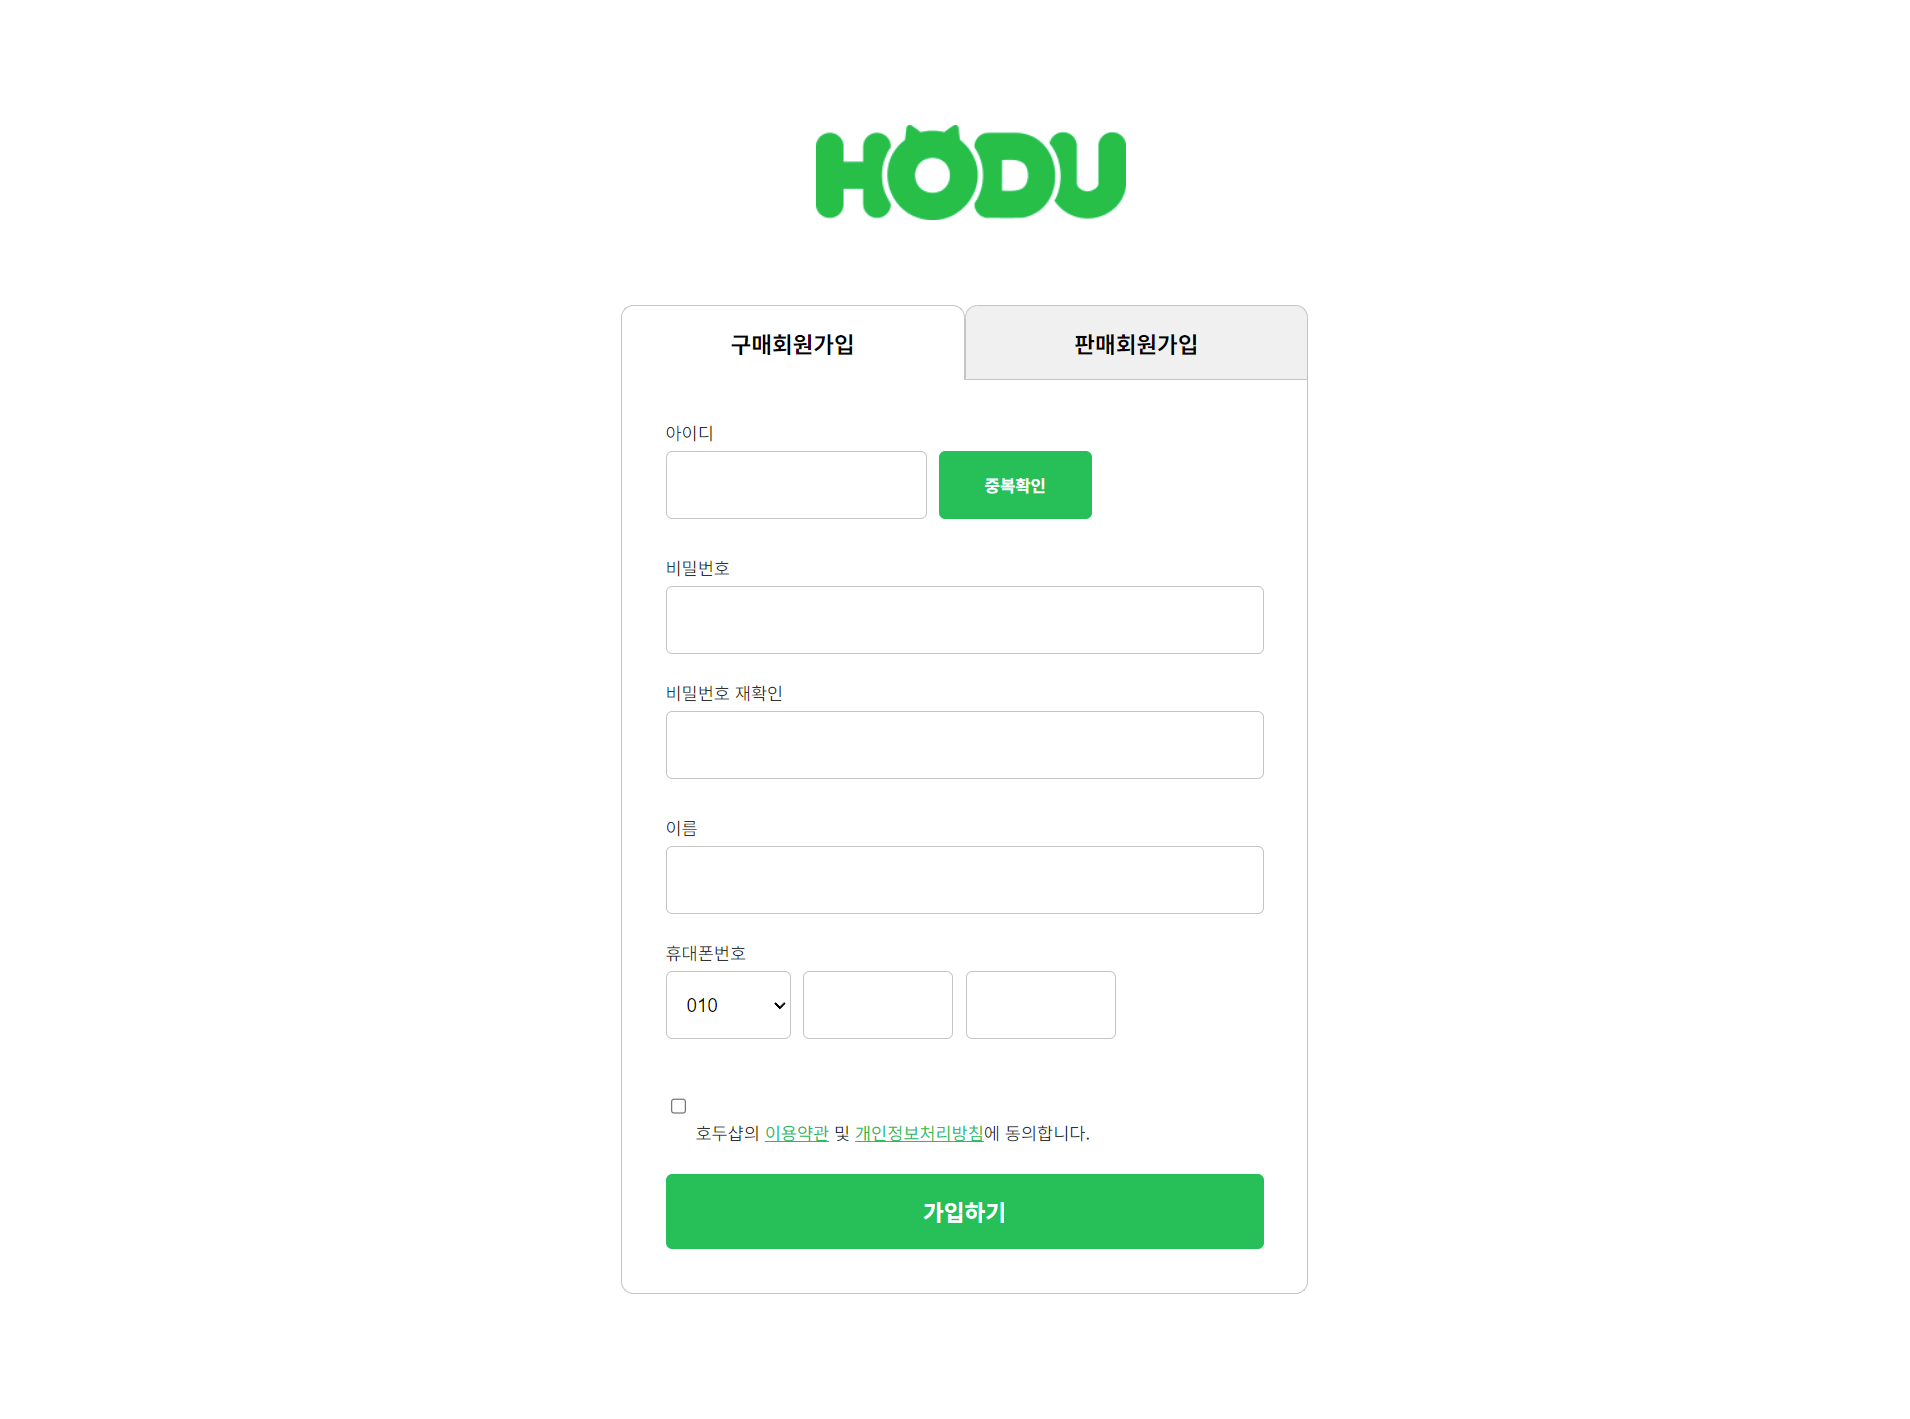
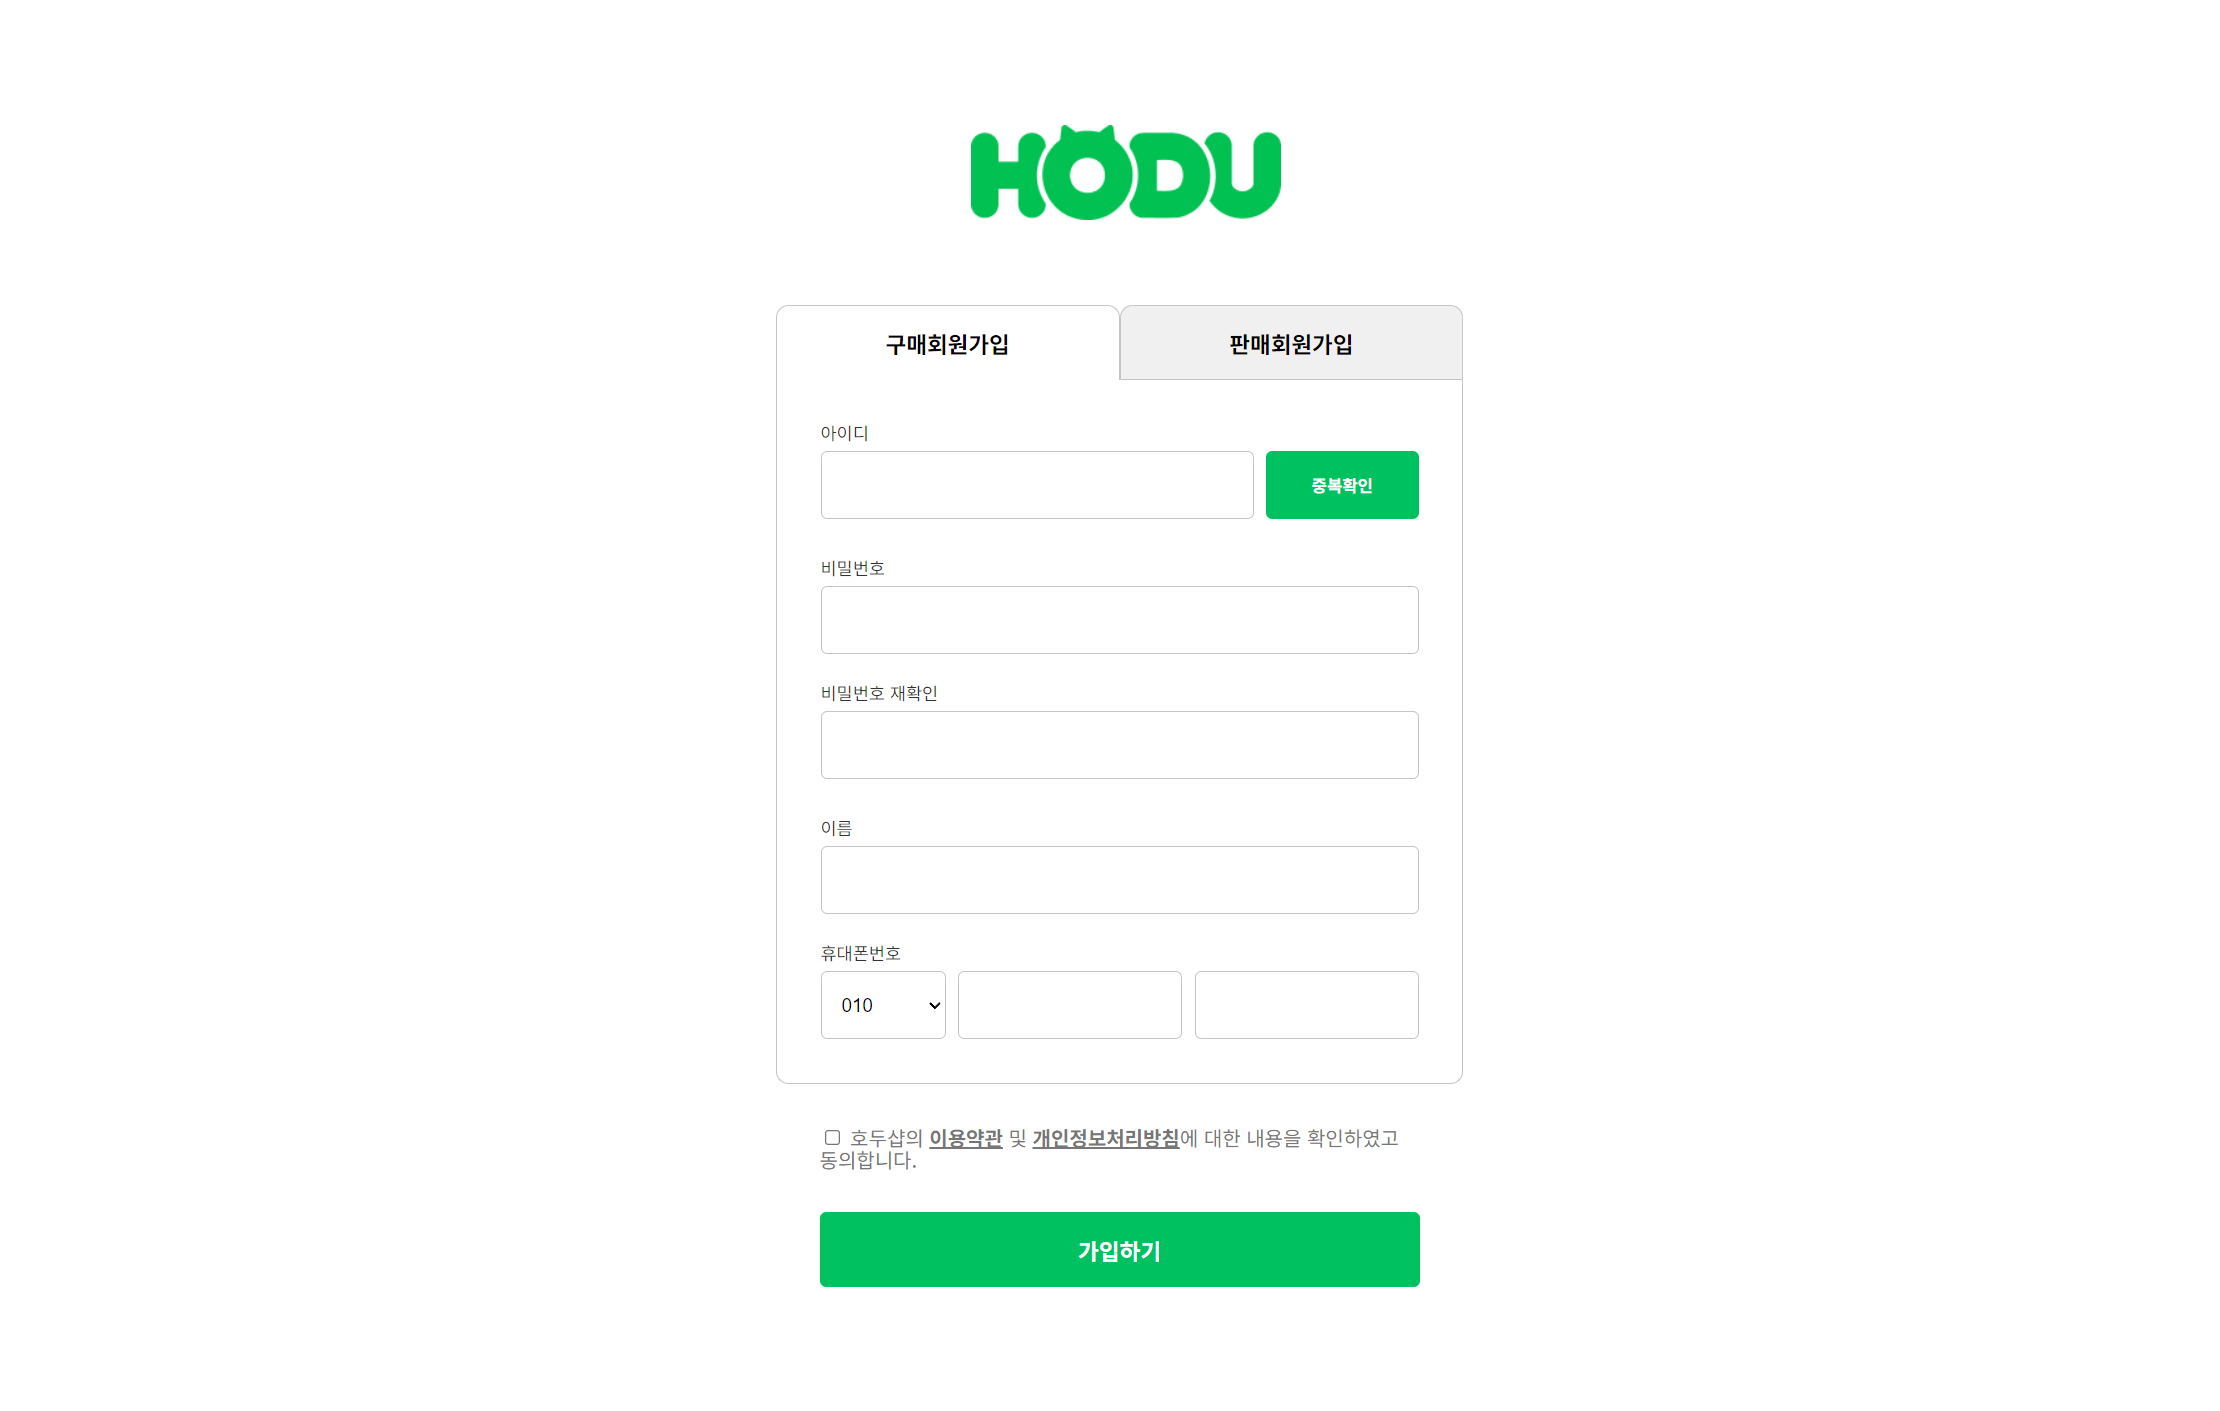
🎨 회원가입 UI 구조 및 정렬 개선 (약관 체크박스, 버튼 위치 수정)

diff --git a/src/pages/SignupPage.js b/src/pages/SignupPage.js
@@ -63,15 +63,18 @@ export default function SignupPage() {
             </div>
           </div>
 
-          <div class="form-block terms">
-            <label>
-              <input type="checkbox" name="terms" />
-              호두샵의 <a href="#">이용약관</a> 및 <a href="#">개인정보처리방침</a>에 동의합니다.
+        </form>
+
+        <div class="terms-section">
+          <div class="terms-checkbox">
+            <input type="checkbox" id="terms-checkbox" />
+            <label for="terms-checkbox">
+              호두샵의 <a href="#">이용약관</a> 및 <a href="#">개인정보처리방침</a>에 대한 내용을 확인하였고 동의합니다.
             </label>
           </div>
+        </div>
 
-          <button type="submit" class="signup-btn">가입하기</button>
-        </form>
+        <button type="submit" class="signup-btn">가입하기</button>
       </div>
   `;
 
@@ -121,9 +124,9 @@ export default function SignupPage() {
     pwMessage.style.display = 'block';
   });
 
-  const form = section.querySelector('.signup-form');
+  const signupBtn = section.querySelector('.signup-btn');
 
-  form.addEventListener('submit', async (e) => {
+  signupBtn.addEventListener('click', async (e) => {
     e.preventDefault();
 
     if (!validatePasswordMatch(pw1.value, pw2.value)) {
@@ -132,7 +135,7 @@ export default function SignupPage() {
       return;
     }
 
-    if (!validateTermsAgreement(section.querySelector('input[name="terms"]'))) {
+    if (!validateTermsAgreement(section.querySelector('#terms-checkbox'))) {
       alert('약관에 동의해주세요.');
       return;
     }

diff --git a/src/styles/index.css b/src/styles/index.css
@@ -304,6 +304,9 @@ strong {
 
 .signup-container {
   width: 550px;
+  display: flex;
+  flex-direction: column;
+  align-items: center;
 }
 
 .signup-tab {
@@ -337,6 +340,10 @@ strong {
   display: flex;
   flex-direction: column;
   gap: 24px;
+  margin-bottom: 34px;
+}
+.signup-form input[type="text"] {
+  width: 100%;
 }
 
 .form-block {
@@ -352,8 +359,13 @@ strong {
 
 .form-row {
   display: flex;
-  gap: 10px;
   align-items: center;
+  gap: 10px;
+  width: 100%;
+}
+
+.form-row input {
+  flex: 1;
 }
 
 .signup-form input,
@@ -395,6 +407,22 @@ strong {
   color: red;
 }
 
+.terms-section {
+  width: 480px;
+  display: flex;
+  justify-content: center;
+  font-size: 16px;
+  color: var(--sub-color);
+}
+
+.terms-checkbox a {
+  font-weight: bold;
+}
+
+.terms-checkbox {
+  margin-bottom: 34px;
+}
+
 .terms label {
   font-size: 14px;
   color: #333;
@@ -406,6 +434,7 @@ strong {
 }
 
 .signup-btn {
+  width: 480px;
   height: 60px;
   background: var(--main-color);
   color: white;
